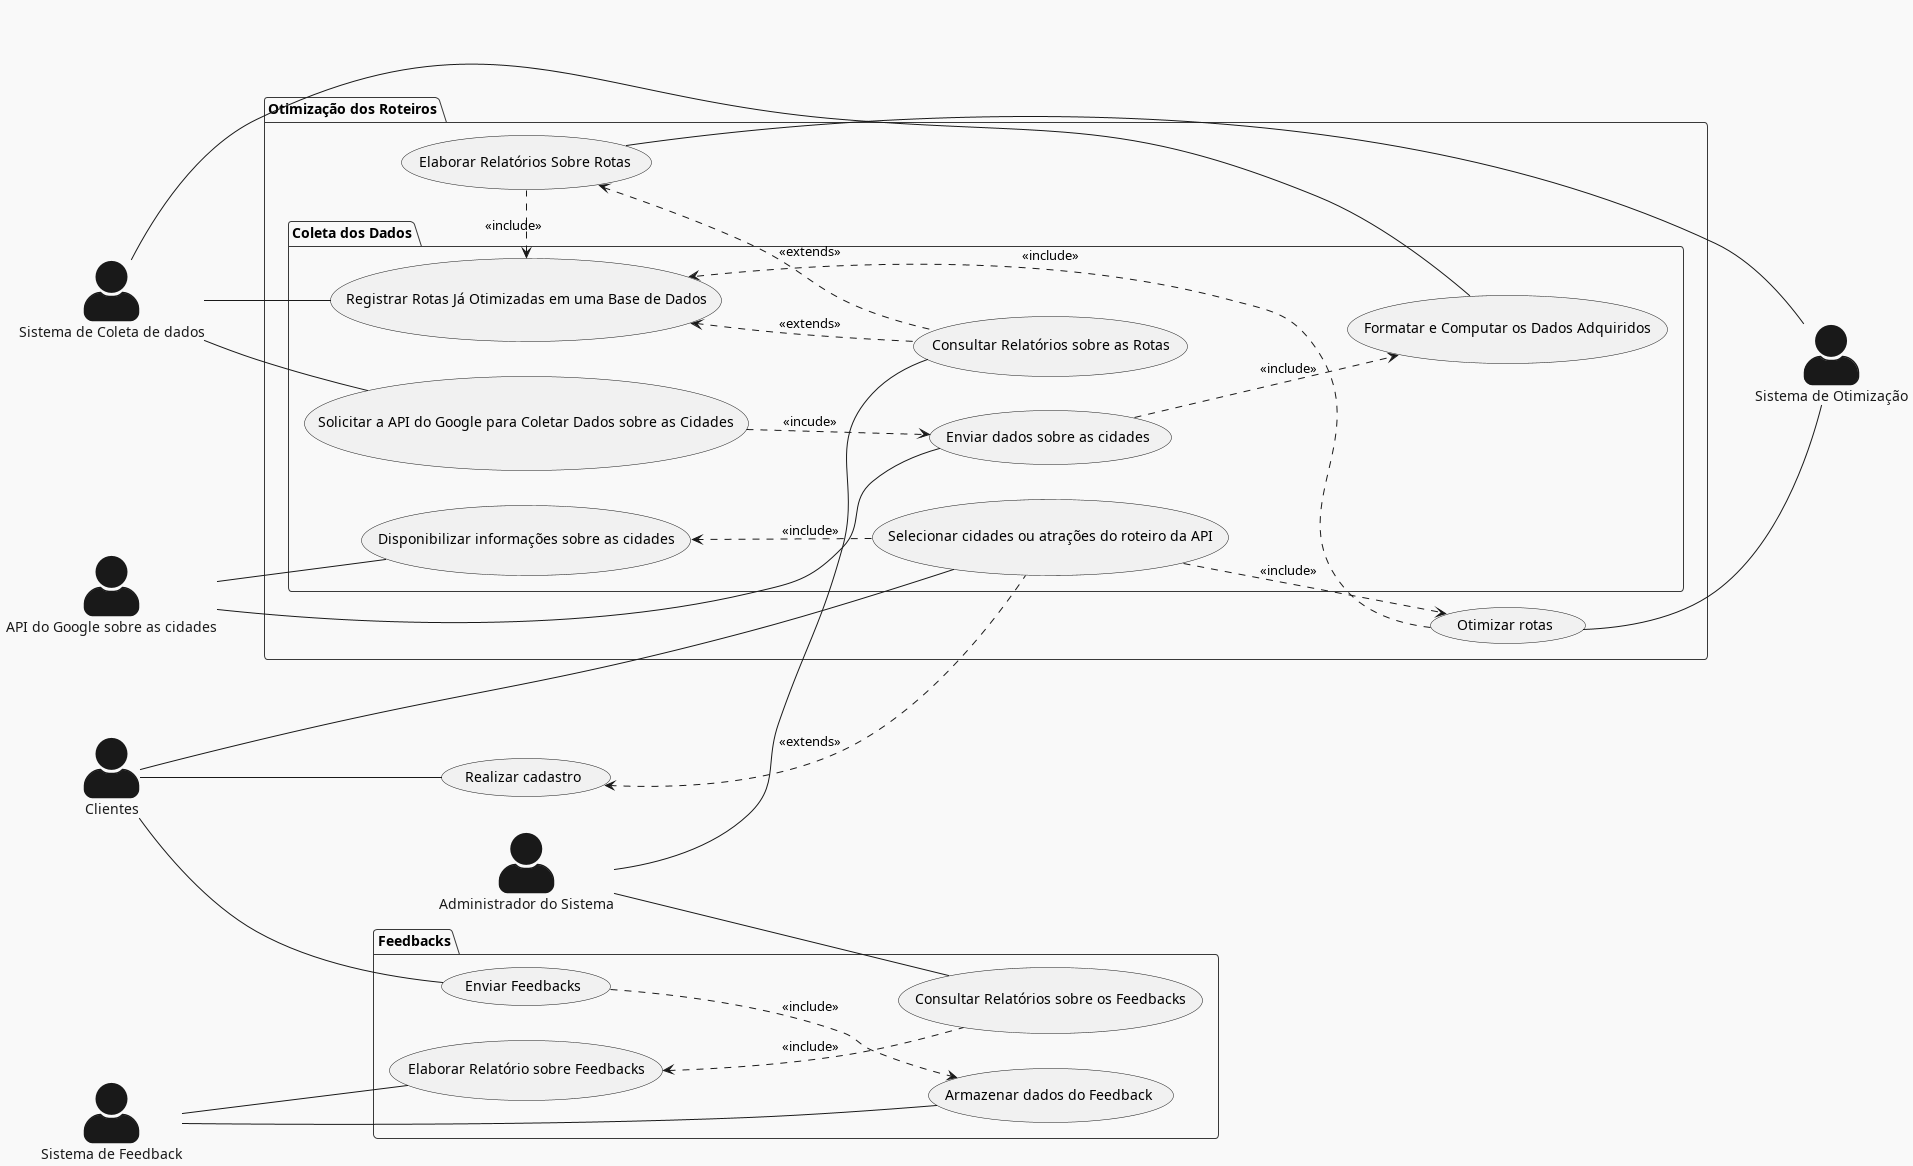
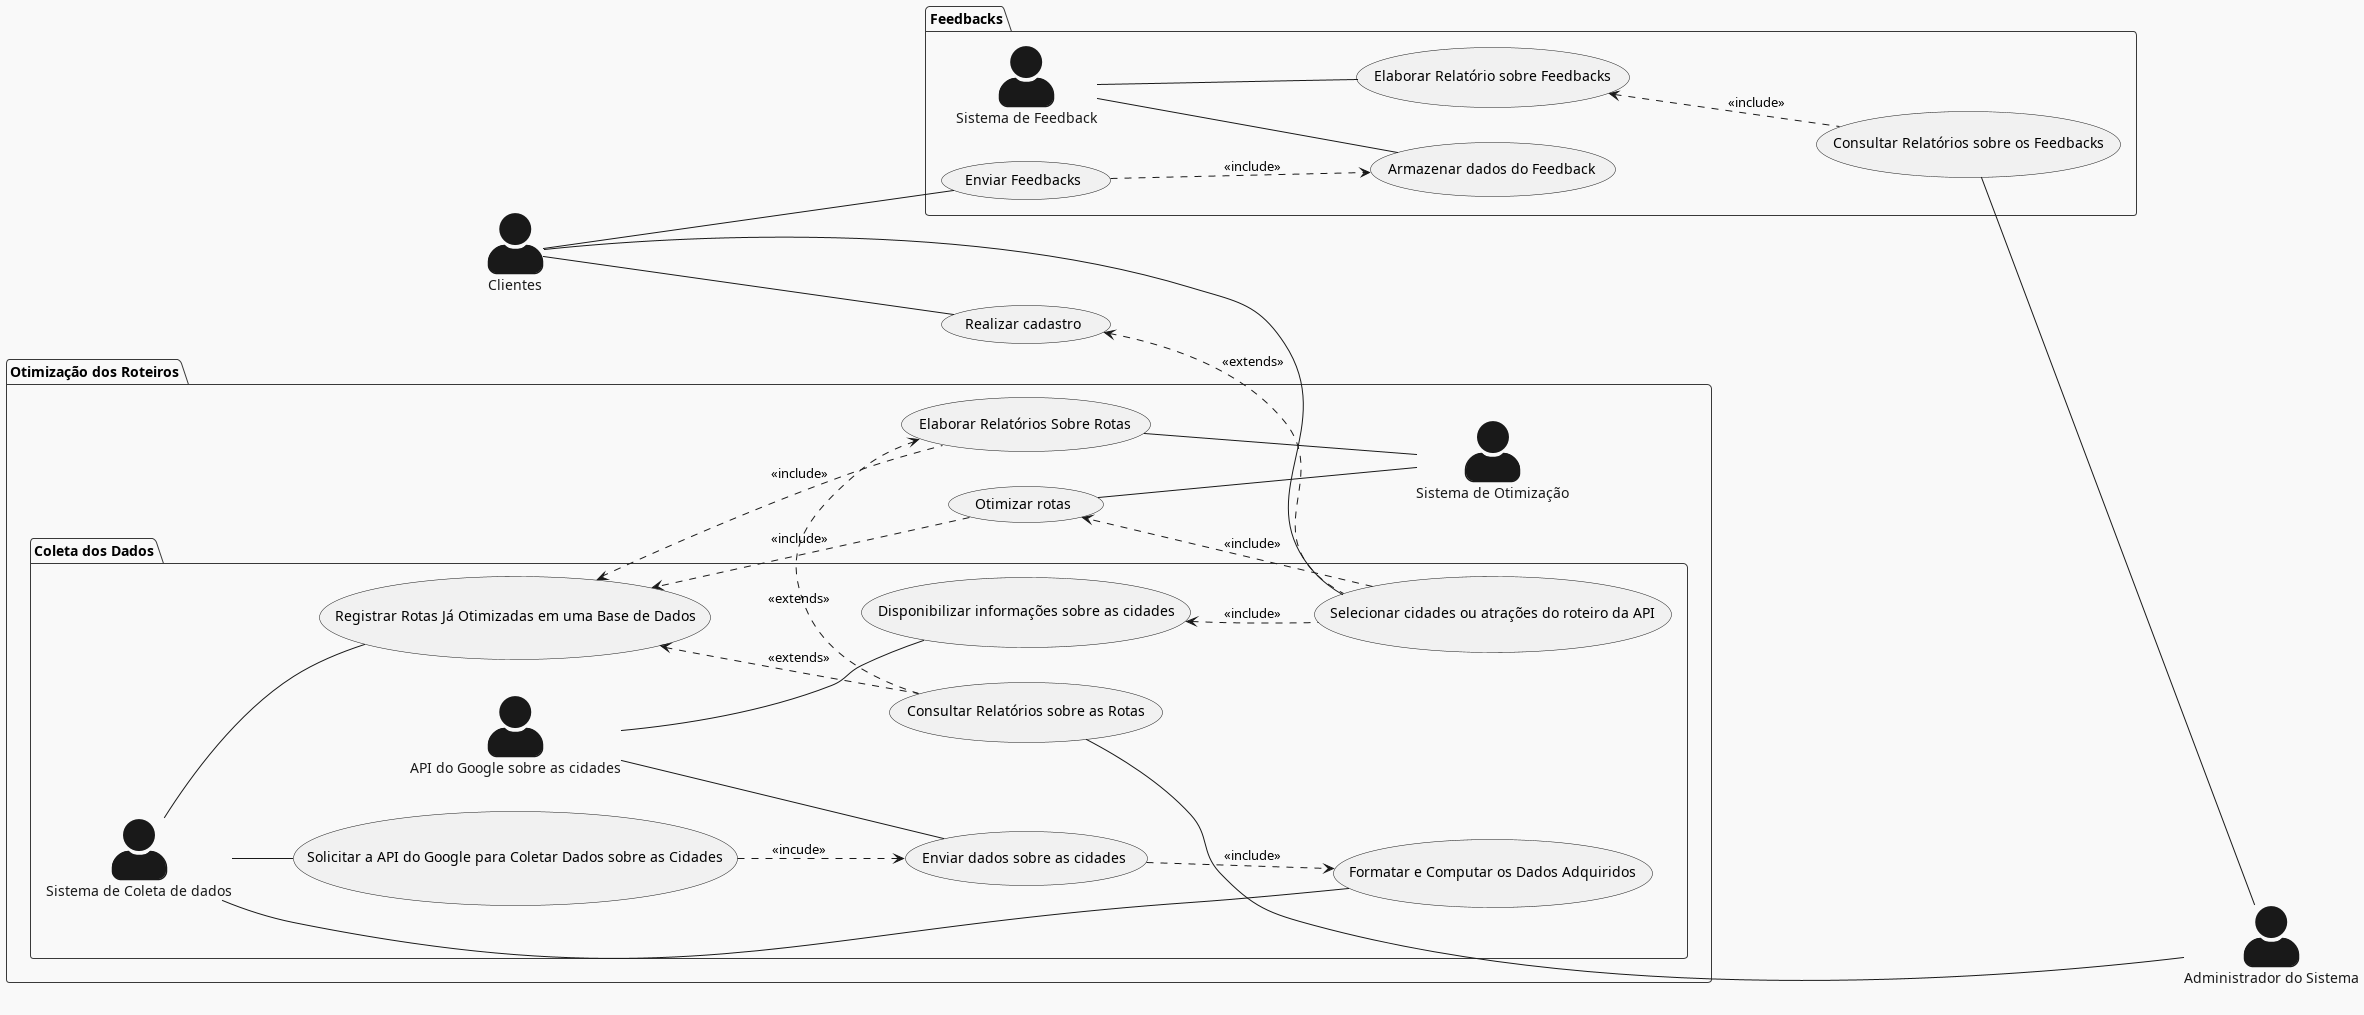
Mais correções DCU

diff --git a/Relatório/Semana-1/Diagramas/DCU.md b/Relatório/Semana-1/Diagramas/DCU.md
@@ -2,13 +2,8 @@
 skinparam actorStyle awesome
 !theme mars
 left to right direction
-
 actor "Clientes" as cliente
-actor "API do Google sobre as cidades" as API
-actor "Sistema de Otimização" as  otimizador
 actor "Administrador do Sistema" as sys_admin
-actor "Sistema de Feedback" as feedback
-actor "Sistema de Coleta de dados" as coletador
 
 cliente -- (Realizar cadastro)
 
@@ -16,11 +11,16 @@ cliente -- (Realizar cadastro)
 
 
 package "Otimização dos Roteiros"{
+actor "Sistema de Otimização" as  otimizador
 
 
 (Otimizar rotas) -- otimizador 
 
+
     package "Coleta dos Dados"{
+        actor "Sistema de Coleta de dados" as coletador
+        actor "API do Google sobre as cidades" as API   
+
         cliente -- (Selecionar cidades ou atrações do roteiro da API)
         (Selecionar cidades ou atrações do roteiro da API) ..> (Otimizar rotas): <<include>>
         (Solicitar a API do Google para Coletar Dados sobre as Cidades) ..> (Enviar dados sobre as cidades) : <<incude>>
@@ -42,7 +42,7 @@ package "Otimização dos Roteiros"{
 
 
 
-sys_admin -- (Consultar Relatórios sobre as Rotas)
+(Consultar Relatórios sobre as Rotas) -- sys_admin
 
 
 
@@ -52,12 +52,13 @@ sys_admin -- (Consultar Relatórios sobre as Rotas)
 
 
 package "Feedbacks"{
+actor "Sistema de Feedback" as feedback
 
 (Enviar Feedbacks) ..> (Armazenar dados do Feedback) : <<include>>
 (Elaborar Relatório sobre Feedbacks) <.. (Consultar Relatórios sobre os Feedbacks) : <<include>>
 cliente -- (Enviar Feedbacks)
 feedback -- (Armazenar dados do Feedback)
-sys_admin -- (Consultar Relatórios sobre os Feedbacks)  
+(Consultar Relatórios sobre os Feedbacks) -- sys_admin
 feedback -- (Elaborar Relatório sobre Feedbacks)
 
 
